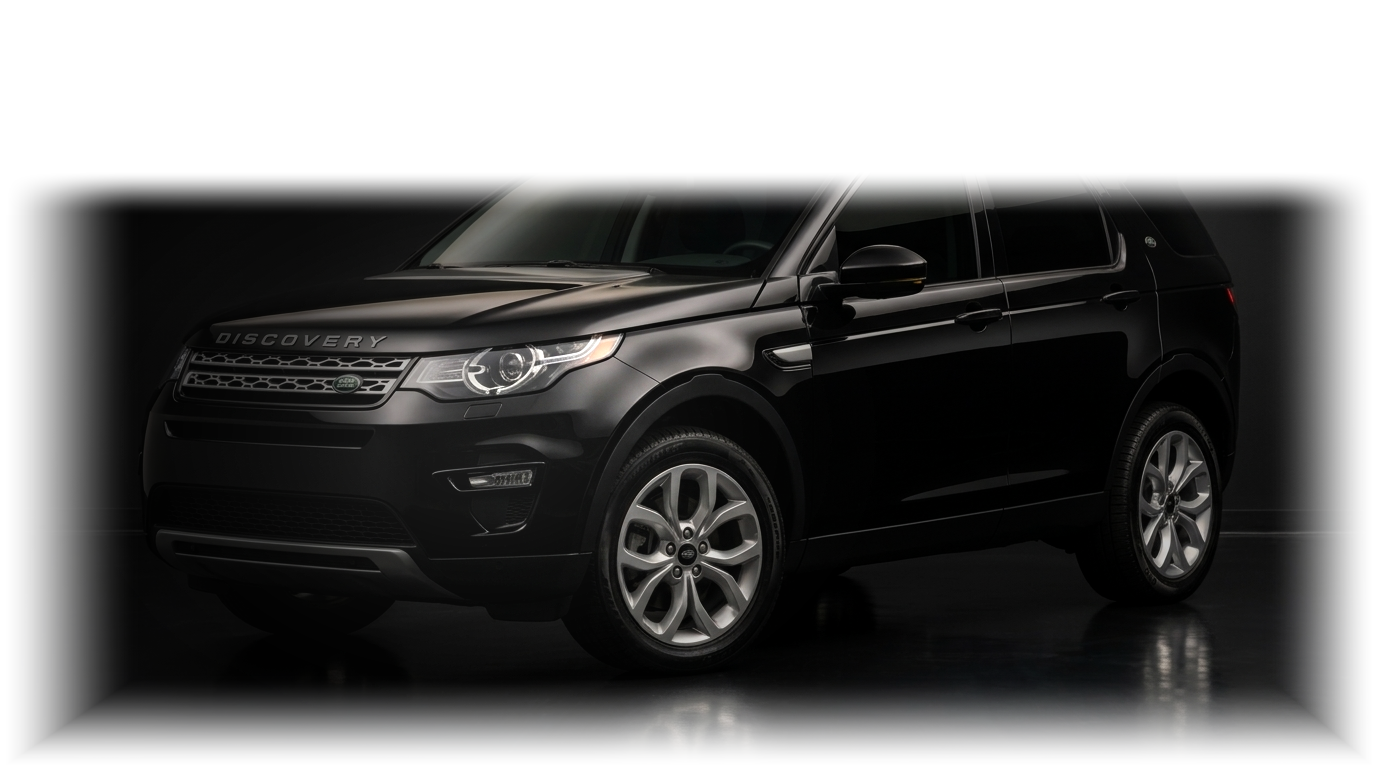
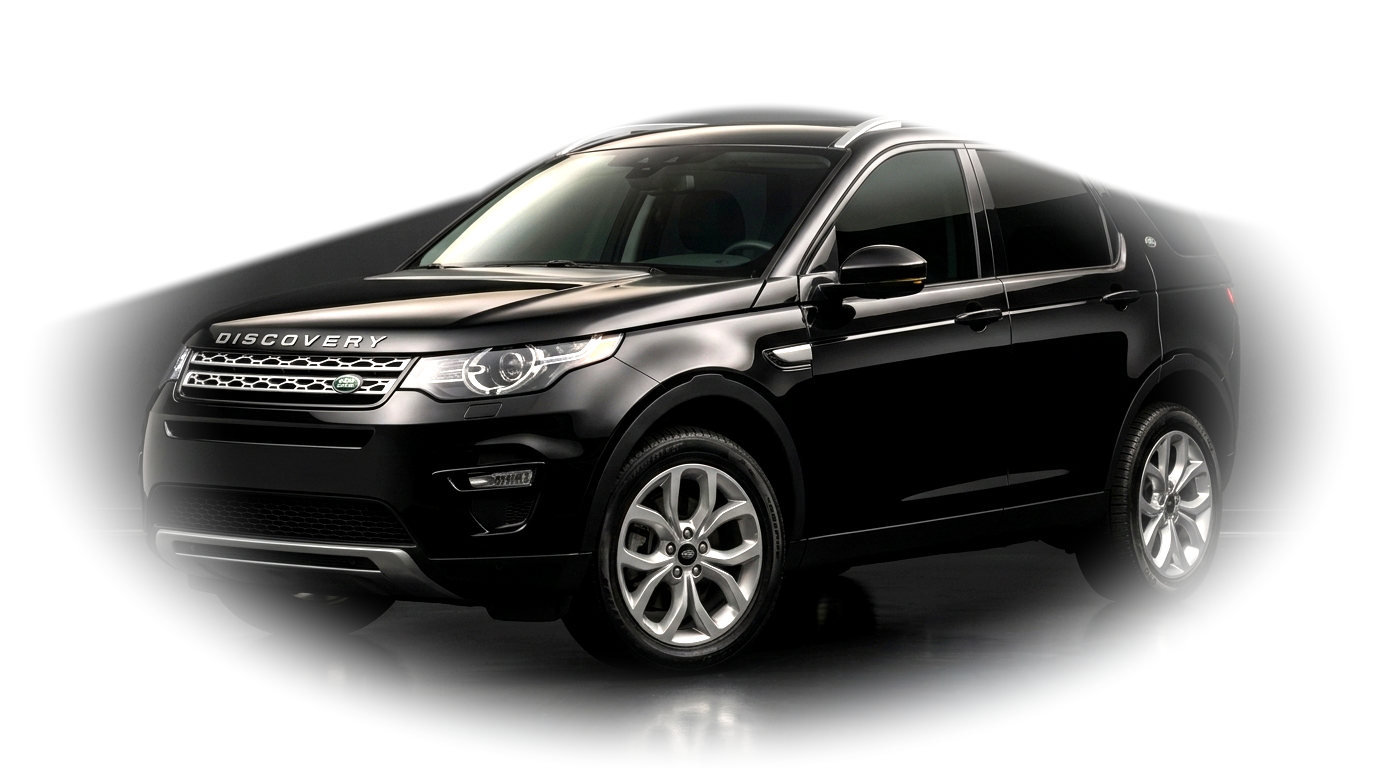
feat: reordenar taxis (sedan primeiro, depois suv), restaurar e clarear teto da Land Rover no hero, e padronizar sketches para RGBA

diff --git a/templates/index.html b/templates/index.html
@@ -11,7 +11,7 @@
   
   <!-- Land Rover Discovery Preta Realista no Centro-Direita (Estilo Mockup) -->
   <div class="hero-center-escalade" aria-hidden="true">
-    <img src="{{ url_for('static', filename='images/hero-landrover-studio.png') }}?v=4" alt="Land Rover Discovery Blindada">
+    <img src="{{ url_for('static', filename='images/hero-landrover-studio.png') }}?v=5" alt="Land Rover Discovery Blindada">
   </div>
 
   <div class="container-xl position-relative" style="z-index: 3;">

diff --git a/app.py b/app.py
@@ -290,19 +290,6 @@ CATEGORIAS_TERRESTRES = [
                 "param_reserva": "Táxi Sedan Blindado"
             },
             {
-                "id": "taxi-suv-blindado",
-                "nome": "Táxi SUV Blindado",
-                "subtitulo": "Deslocamentos Urbanos em SUV com Acesso a Faixas e Blindagem",
-                "exemplo": "Toyota Corolla Cross / SUVs Homologados SP",
-                "capacidade": "4 Passageiros + 3 Bagagens",
-                "tag": "Táxi Blindado",
-                "tag_icone": "bi-shield-check",
-                "destaques": ["Acesso a Corredores Expressos", "Blindagem Balística Nível III-A", "Conforto Elevado no Asfalto", "Tarifa Padronizada"],
-                "imagem": "/static/images/fleet-suv-taxi-sketch.png",
-                "imagem_real": "/static/images/real/real-suv-taxi.jpg",
-                "param_reserva": "Táxi SUV Blindado"
-            },
-            {
                 "id": "taxi-convencional",
                 "nome": "Táxi Sedan Convencional",
                 "subtitulo": "Agilidade em Deslocamentos Urbanos Rápidos e Conexões",
@@ -314,6 +301,19 @@ CATEGORIAS_TERRESTRES = [
                 "imagem": "/static/images/fleet-sedan-taxi-sketch.png",
                 "imagem_real": "/static/images/real/real-sedan-taxi.jpg",
                 "param_reserva": "Táxi Sedan Convencional"
+            },
+            {
+                "id": "taxi-suv-blindado",
+                "nome": "Táxi SUV Blindado",
+                "subtitulo": "Deslocamentos Urbanos em SUV com Acesso a Faixas e Blindagem",
+                "exemplo": "Toyota Corolla Cross / SUVs Homologados SP",
+                "capacidade": "4 Passageiros + 3 Bagagens",
+                "tag": "Táxi Blindado",
+                "tag_icone": "bi-shield-check",
+                "destaques": ["Acesso a Corredores Expressos", "Blindagem Balística Nível III-A", "Conforto Elevado no Asfalto", "Tarifa Padronizada"],
+                "imagem": "/static/images/fleet-suv-taxi-sketch.png",
+                "imagem_real": "/static/images/real/real-suv-taxi.jpg",
+                "param_reserva": "Táxi SUV Blindado"
             },
             {
                 "id": "taxi-suv-convencional",
